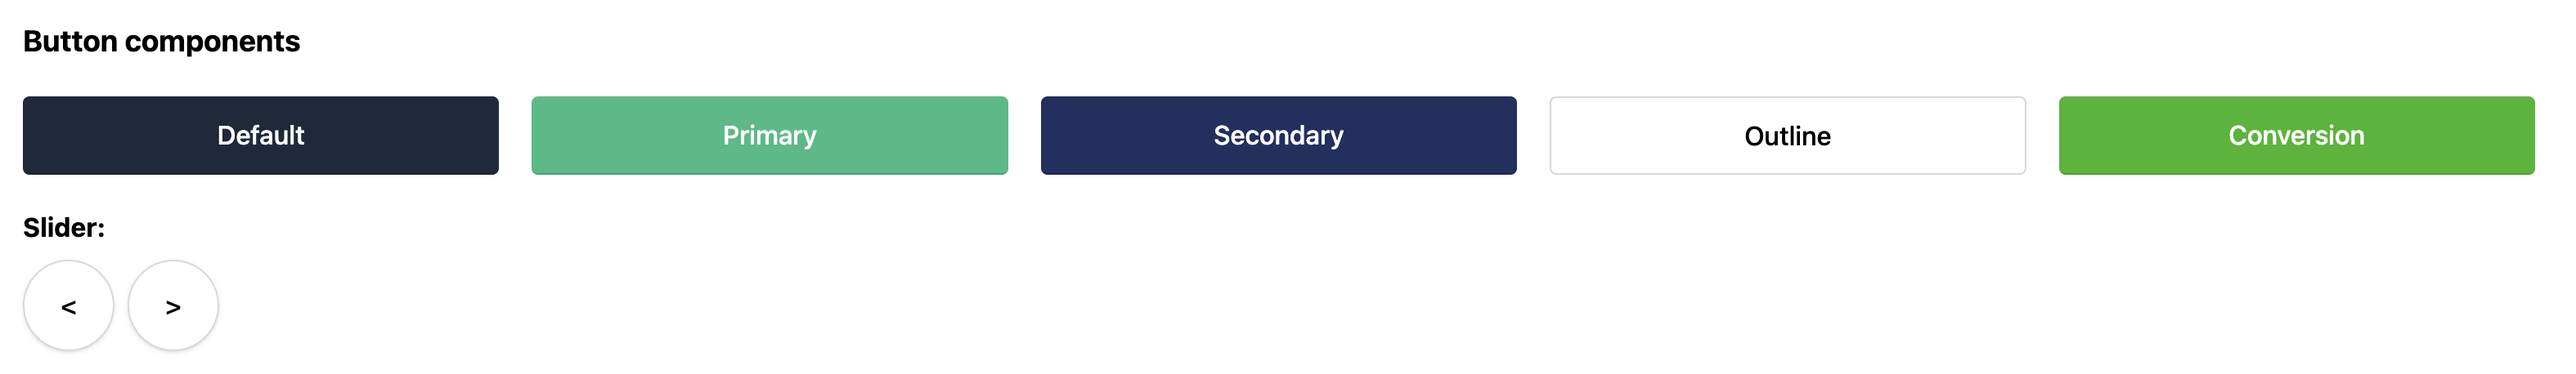
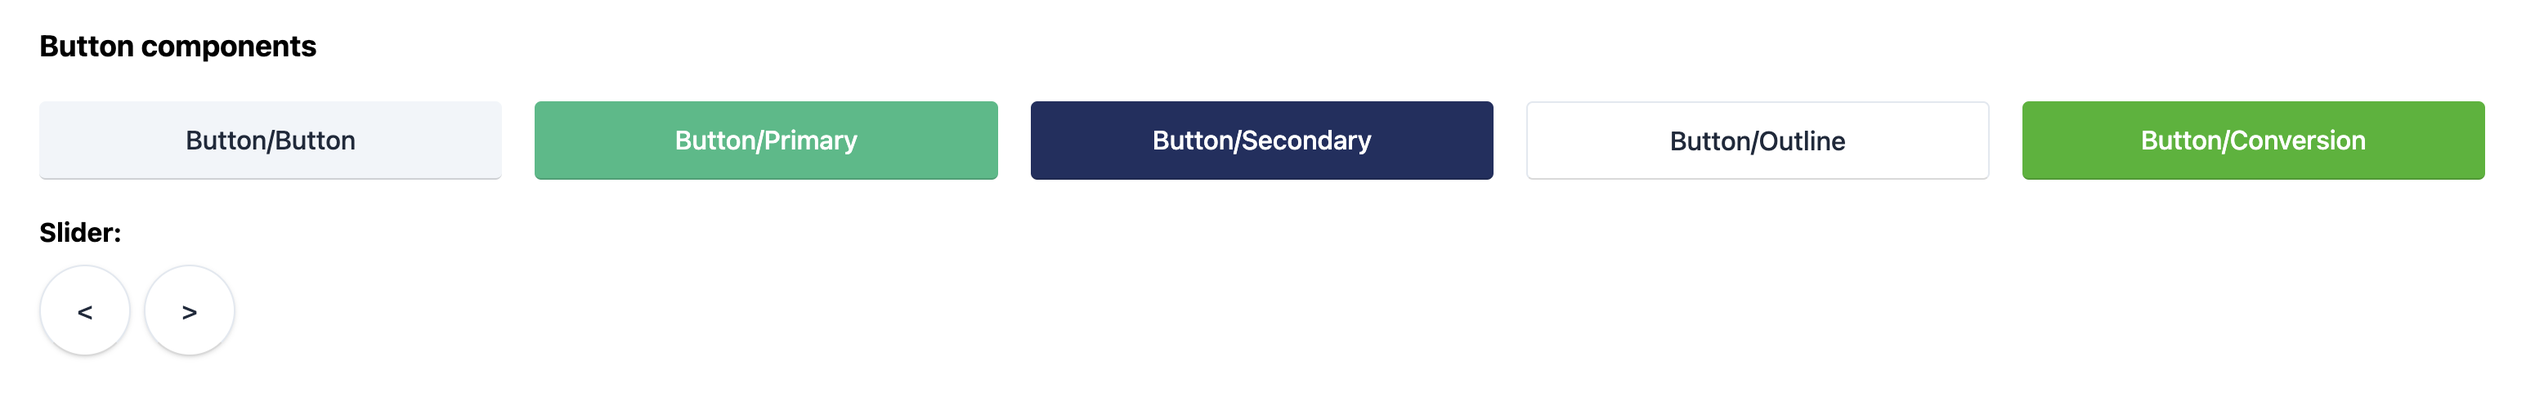
Update colors | Update screenshot | Rename index to button

diff --git a/demo/components.html b/demo/components.html
@@ -39,8 +39,8 @@
                             muted: color('--border-muted', tailwind.colors.slate[100]),
                         },
                         background: {
-                            emphasis: color('--background-emphasis', tailwind.colors.slate[900]),
-                            DEFAULT: color('--background', tailwind.colors.slate[800]),
+                            emphasis: color('--background-emphasis', tailwind.colors.slate[200]),
+                            DEFAULT: color('--background', tailwind.colors.slate[100]),
                             muted: color('--background-muted', tailwind.colors.slate[50]),
                         },
                     },
@@ -216,29 +216,29 @@
 
         <h2 class="font-bold text-lg">Button components</h2>
         <div class="grid grid-cols-5 gap-5">
-            <button class="relative inline-flex items-center justify-center text-white transition bg text-base font-medium rounded min-h-12 py-1.5 px-5 hover:bg-opacity-80 border-b border-black/15 disabled:text-muted disabled:bg-muted disabled:cursor-not-allowed">
-                Default
+            <button class="relative inline-flex items-center justify-center text-white transition bg text-base font-medium rounded min-h-12 py-1.5 px-5 hover:bg-opacity-80 border-b border-b-black/15 disabled:text-muted disabled:bg-muted disabled:cursor-not-allowed">
+                Button/Button
             </button>
-            <button class="relative inline-flex items-center justify-center transition bg text-base font-medium rounded min-h-12 py-1.5 px-5 hover:bg-opacity-80 border-b border-black/15 disabled:text-muted disabled:bg-muted disabled:cursor-not-allowed bg-primary text-primary-text">
-                Primary
+            <button class="relative inline-flex items-center justify-center transition bg text-base font-medium rounded min-h-12 py-1.5 px-5 hover:bg-opacity-80 border-b border-b-black/15 disabled:text-muted disabled:bg-muted disabled:cursor-not-allowed bg-primary text-primary-text">
+                Button/Primary
             </button>
-            <button class="relative inline-flex items-center justify-center transition bg text-base font-medium rounded min-h-12 py-1.5 px-5 hover:bg-opacity-80 border-b border-black/15 disabled:text-muted disabled:bg-muted disabled:cursor-not-allowed bg-secondary text-secondary-text">
-                Secondary
+            <button class="relative inline-flex items-center justify-center transition bg text-base font-medium rounded min-h-12 py-1.5 px-5 hover:bg-opacity-80 border-b border-b-black/15 disabled:text-muted disabled:bg-muted disabled:cursor-not-allowed bg-secondary text-secondary-text">
+                Button/Secondary
             </button>
-            <button class="relative inline-flex items-center justify-center transition bg text-base font-medium rounded min-h-12 py-1.5 px-5 hover:bg-opacity-80 border-black/15 disabled:text-muted disabled:bg-muted disabled:cursor-not-allowed bg-transparent border text-default hover:border-emphasis">
-                Outline
+            <button class="relative inline-flex items-center justify-center transition bg text-base font-medium rounded min-h-12 py-1.5 px-5 hover:bg-opacity-80 border-b-black/15 disabled:text-muted disabled:bg-muted disabled:cursor-not-allowed bg-transparent border text-default hover:border-emphasis">
+                Button/Outline
             </button>
-            <button class="relative inline-flex items-center justify-center transition bg text-base font-medium rounded min-h-12 py-1.5 px-5 hover:bg-opacity-80 disabled:text-muted disabled:bg-muted disabled:cursor-not-allowed bg-conversion text-conversion-text border-b border-black/15">
-                Conversion
+            <button class="relative inline-flex items-center justify-center transition bg text-base font-medium rounded min-h-12 py-1.5 px-5 hover:bg-opacity-80 disabled:text-muted disabled:bg-muted disabled:cursor-not-allowed bg-conversion text-conversion-text border-b border-b-black/15">
+                Button/Conversion
             </button>
             <div class="flex flex-col gap-2">
                 <strong>Slider:</strong>
                 <div class="flex items-center gap-2">
-                    <button class="relative transition bg text-base font-medium min-h-12 hover:bg-opacity-80 border-black/15 disabled:text-muted disabled:bg-muted disabled:cursor-not-allowed inline-flex bg-white p-0 rounded-full size-14 items-center justify-center shadow text-default border">
-                        <
+                    <button class="relative transition bg text-base font-medium min-h-12 hover:bg-opacity-80 border-b-black/15 disabled:text-muted disabled:bg-muted disabled:cursor-not-allowed inline-flex bg-white p-0 rounded-full size-14 items-center justify-center shadow text-default border">
+                        &lt;
                     </button>
-                    <button class="relative transition bg text-base font-medium min-h-12 hover:bg-opacity-80 border-black/15 disabled:text-muted disabled:bg-muted disabled:cursor-not-allowed inline-flex bg-white p-0 rounded-full size-14 items-center justify-center shadow text-default border">
-                        >
+                    <button class="relative transition bg text-base font-medium min-h-12 hover:bg-opacity-80 border-b-black/15 disabled:text-muted disabled:bg-muted disabled:cursor-not-allowed inline-flex bg-white p-0 rounded-full size-14 items-center justify-center shadow text-default border">
+                        &gt;
                     </button>
                 </div>
             </div>

diff --git a/resources/views/components-preview.blade.php b/resources/views/components-preview.blade.php
@@ -38,8 +38,8 @@
                             muted: color('--border-muted', tailwind.colors.slate[100]),
                         },
                         background: {
-                            emphasis: color('--background-emphasis', tailwind.colors.slate[900]),
-                            DEFAULT: color('--background', tailwind.colors.slate[800]),
+                            emphasis: color('--background-emphasis', tailwind.colors.slate[200]),
+                            DEFAULT: color('--background', tailwind.colors.slate[100]),
                             muted: color('--background-muted', tailwind.colors.slate[50]),
                         },
                     },
@@ -175,16 +175,16 @@
 
             <h2 class="font-bold text-lg">Button components</h2>
             <div class="grid grid-cols-5 gap-5">
-                <x-rapidez::button>Default</x-rapidez::button>
-                <x-rapidez::button.primary>Primary</x-rapidez::button.primary>
-                <x-rapidez::button.secondary>Secondary</x-rapidez::button.secondary>
-                <x-rapidez::button.outline>Outline</x-rapidez::button.outline>
-                <x-rapidez::button.conversion>Conversion</x-rapidez::button.conversion>
+                <x-rapidez::button>Button/Button</x-rapidez::button>
+                <x-rapidez::button.primary>Button/Primary</x-rapidez::button.primary>
+                <x-rapidez::button.secondary>Button/Secondary</x-rapidez::button.secondary>
+                <x-rapidez::button.outline>Button/Outline</x-rapidez::button.outline>
+                <x-rapidez::button.conversion>Button/Conversion</x-rapidez::button.conversion>
                 <div class="flex flex-col gap-2">
                     <strong>Slider:</strong>
                     <div class="flex items-center gap-2">
-                        <x-rapidez::button.slider><</x-rapidez::button.slider>
-                        <x-rapidez::button.slider>></x-rapidez::button.slider>
+                        <x-rapidez::button.slider>&lt;</x-rapidez::button.slider>
+                        <x-rapidez::button.slider>&gt;</x-rapidez::button.slider>
                     </div>
                 </div>
             </div>

diff --git a/resources/views/components/button/conversion.blade.php b/resources/views/components/button/conversion.blade.php
@@ -1,12 +1,12 @@
 {{--
-The enhanced button is a variant specifically used for anything conversion related.
+The conversion button is a variant specifically used for anything conversion related.
 Like purchasing a product or completing the checkout.
 Example:
 
 ```
-<x-rapidez::button.enhanced>Something</x-rapidez::button.enhanced>
+<x-rapidez::button.conversion>Something</x-rapidez::button.conversion>
 ```
 --}}
-<x-rapidez::button {{ $attributes->twMerge('bg-conversion text-conversion-text border-b border-black/15') }}>
+<x-rapidez::button {{ $attributes->twMerge('bg-conversion text-conversion-text') }}>
     {{ $slot }}
 </x-rapidez::button>

diff --git a/resources/views/components/button/button.blade.php b/resources/views/components/button/button.blade.php
@@ -1,0 +1,12 @@
+{{--
+This is the default button if you use the example you get this.
+It is not recommended to use this button. Make use of the other buttons. ie: `button/primary`
+Example:
+
+```
+<x-rapidez::button>Something</x-rapidez::button>
+```
+--}}
+<x-rapidez::button.base {{ $attributes->twMerge('relative inline-flex items-center justify-center text transition bg text-base font-medium rounded min-h-12 py-1.5 px-5 hover:bg-opacity-80 border-b border-b-black/15 disabled:text-muted disabled:bg-muted disabled:cursor-not-allowed') }}>
+    {{ $slot }}
+</x-rapidez::button.base>

diff --git a/README.md b/README.md
@@ -19,7 +19,7 @@ We don't provide a input + label combination component as you'll end up with att
 ### Buttons
 
 - [Base](https://github.com/rapidez/blade-components/blob/master/resources/views/components/button/base.blade.php)
-- [Index](https://github.com/rapidez/blade-components/blob/master/resources/views/components/button/index.blade.php)
+- [Button](https://github.com/rapidez/blade-components/blob/master/resources/views/components/button/button.blade.php)
 - [Primary](https://github.com/rapidez/blade-components/blob/master/resources/views/components/button/primary.blade.php)
 - [Secondary](https://github.com/rapidez/blade-components/blob/master/resources/views/components/button/secondary.blade.php)
 - [Outline](https://github.com/rapidez/blade-components/blob/master/resources/views/components/button/outline.blade.php)
@@ -27,7 +27,7 @@ We don't provide a input + label combination component as you'll end up with att
 - [Slider](https://github.com/rapidez/blade-components/blob/master/resources/views/components/button/slider.blade.php)
 
 The base button doesn't have any styling; here, we only use the `x-tag`.
-All other buttons use the `button/index`, which contains the basic styling for buttons, such as padding, hover effects, and the disabled state.
+All other buttons use the `button/button`, which contains the basic styling for buttons, such as padding, hover effects, and the disabled state.
 The button variants contain styling for the background and text color. There is only one exception: the `button/slider`, which has more custom styling than the other button variants.
 
 ![](.github/media/buttons.png)
@@ -65,8 +65,8 @@ colors: {
             muted: color('--border-muted', colors.slate[100]),
         },
         background: {
-            emphasis: color('--background-emphasis', colors.slate[900]),
-            DEFAULT: color('--background', colors.slate[800]),
+            emphasis: color('--background-emphasis', colors.slate[200]),
+            DEFAULT: color('--background', colors.slate[100]),
             muted: color('--background-muted', colors.slate[50]),
         },
     },
